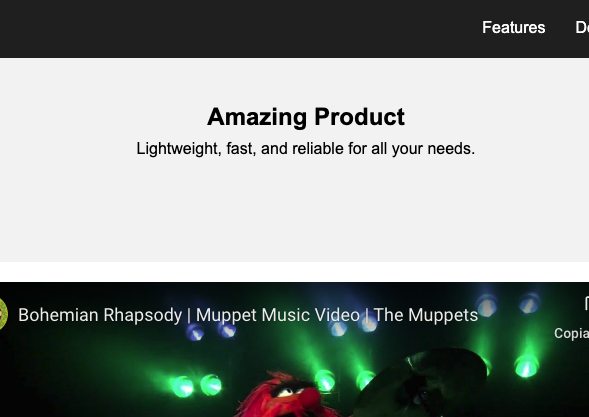
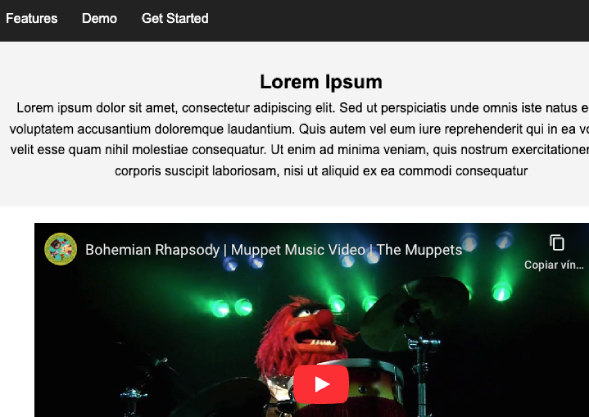
refactor: unify Back to Portfolio layout across all projects (project 5)
removed fixed header from project 4 to display back button correctly; updated thumbnail image for project 4 in portfolio

diff --git a/pages/project4-product-landing/index.html b/pages/project4-product-landing/index.html
@@ -7,13 +7,12 @@
     <link rel="stylesheet" href="styles.css" />
   </head>
   <body>
-    
+      <div class="topbar">
+        <a href="../../index.html" class="back-button">← Back to Portfolio</a>
+      </div>
+      
     <!-- HEADER -->
     <header id="header">
-      <div class="topbar">
-      <a href="../../index.html" class="back-button">← Back to Portfolio</a>
-      </div>
-      <img id="header-img" src="https://upload.wikimedia.org/wikipedia/commons/a/ab/Logo_TV_2015.png" alt="Logo" />
       <nav id="nav-bar">
         <a class="nav-link" href="#features">Features</a>
         <a class="nav-link" href="#video-section">Demo</a>
@@ -23,8 +22,9 @@
 
     <!-- SECTION: FEATURES -->
     <section id="features">
-      <h2>Amazing Product</h2>
-      <p>Lightweight, fast, and reliable for all your needs.</p>
+      <h2>Lorem Ipsum</h2>
+      <p>Lorem ipsum dolor sit amet, consectetur adipiscing elit. Sed ut perspiciatis unde omnis iste natus error sit voluptatem accusantium doloremque laudantium. Quis autem vel eum iure reprehenderit qui in ea voluptate velit esse quam nihil molestiae consequatur. Ut enim ad minima veniam, quis nostrum exercitationem ullam corporis suscipit laboriosam, nisi ut aliquid ex ea commodi consequatur
+</p>
     </section>
 
     <!-- SECTION: VIDEO -->

diff --git a/pages/project4-product-landing/styles.css b/pages/project4-product-landing/styles.css
@@ -30,27 +30,20 @@ body {
   text-decoration: underline;
 }
 
-/* ------------------------------
-   HEADER FIJO CON FLEXBOX
---------------------------------*/
+
 #header {
-  display: flex;              /* uso de flexbox */
-  justify-content: space-between;
-  align-items: center;
+  display: flex;             
+
   background-color: #222;
   padding: 10px 20px;
-  position: fixed;            /* siempre visible */
   top: 0;
   width: 100%;
-  z-index: 1000;
-}
-
-#header-img {
-  height: 40px;
 }
 
 #nav-bar {
   display: flex;
+  flex-direction: row;
+  justify-content:center;
   gap: 20px;
 }
 
@@ -68,7 +61,7 @@ body {
    SECCIONES
 --------------------------------*/
 section {
-  padding: 100px 20px;
+  padding: 30px 20px;
   text-align: center;
 }
 
@@ -130,22 +123,4 @@ section {
 
 
 
-/* ------------------------------
-   MEDIA QUERY RESPONSIVA
---------------------------------*/
-@media (max-width: 600px) {
-  #header {
-    flex-direction: column;
-    align-items: flex-start;
-  }
 
-  #nav-bar {
-    flex-direction: column;
-    width: 100%;
-    padding-top: 10px;
-  }
-
-  .nav-link {
-    padding: 10px 0;
-  }
-}
